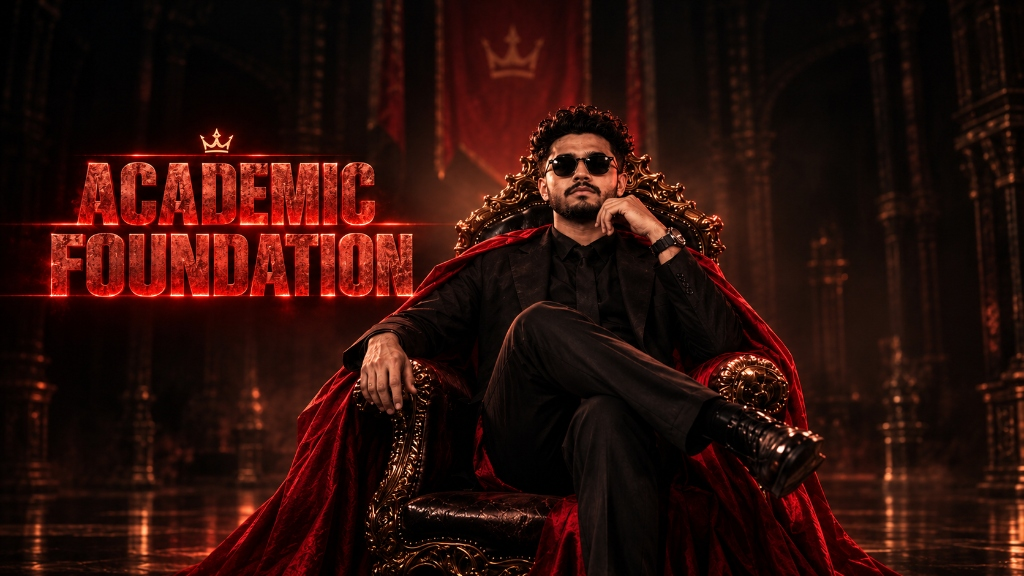
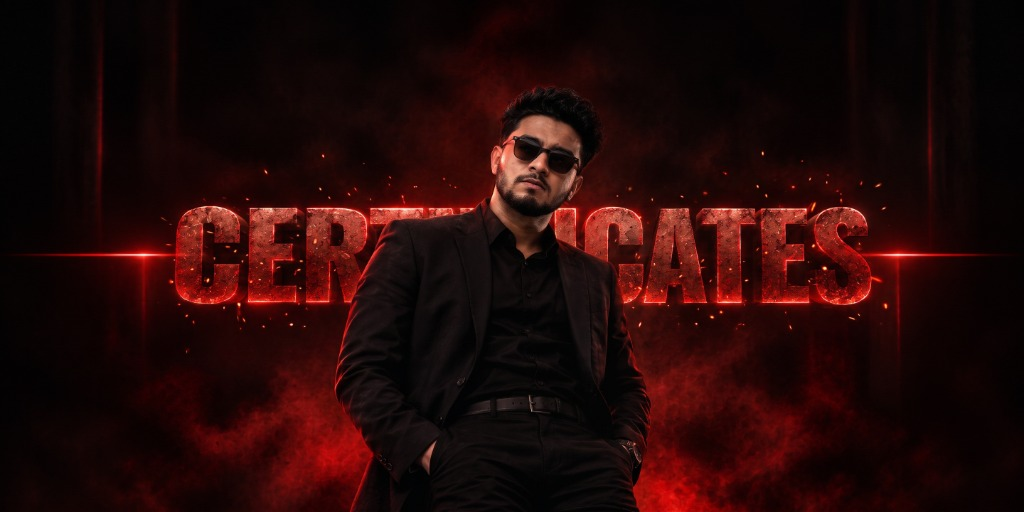
feat: replace certificates artwork with updated high-resolution image

diff --git a/components/sections/Certifications.tsx b/components/sections/Certifications.tsx
@@ -116,7 +116,7 @@ export default function Certifications() {
       <div className="absolute inset-0 z-0 pointer-events-none overflow-hidden flex items-center justify-center will-change-transform">
         <img
           ref={bgImgRef}
-          src="/media/certificates-clean-throne.png"
+          src="/media/certificates-clean-throne.jpg"
           alt="Sayeed Ibne Saif — Verified Credentials & Certificates"
           className="w-full h-full object-cover object-[center_35%] sm:object-[35%_center] select-none filter contrast-105 brightness-100 will-change-transform"
           style={{ clipPath: "inset(0% 50% 0% 50%)" }}
